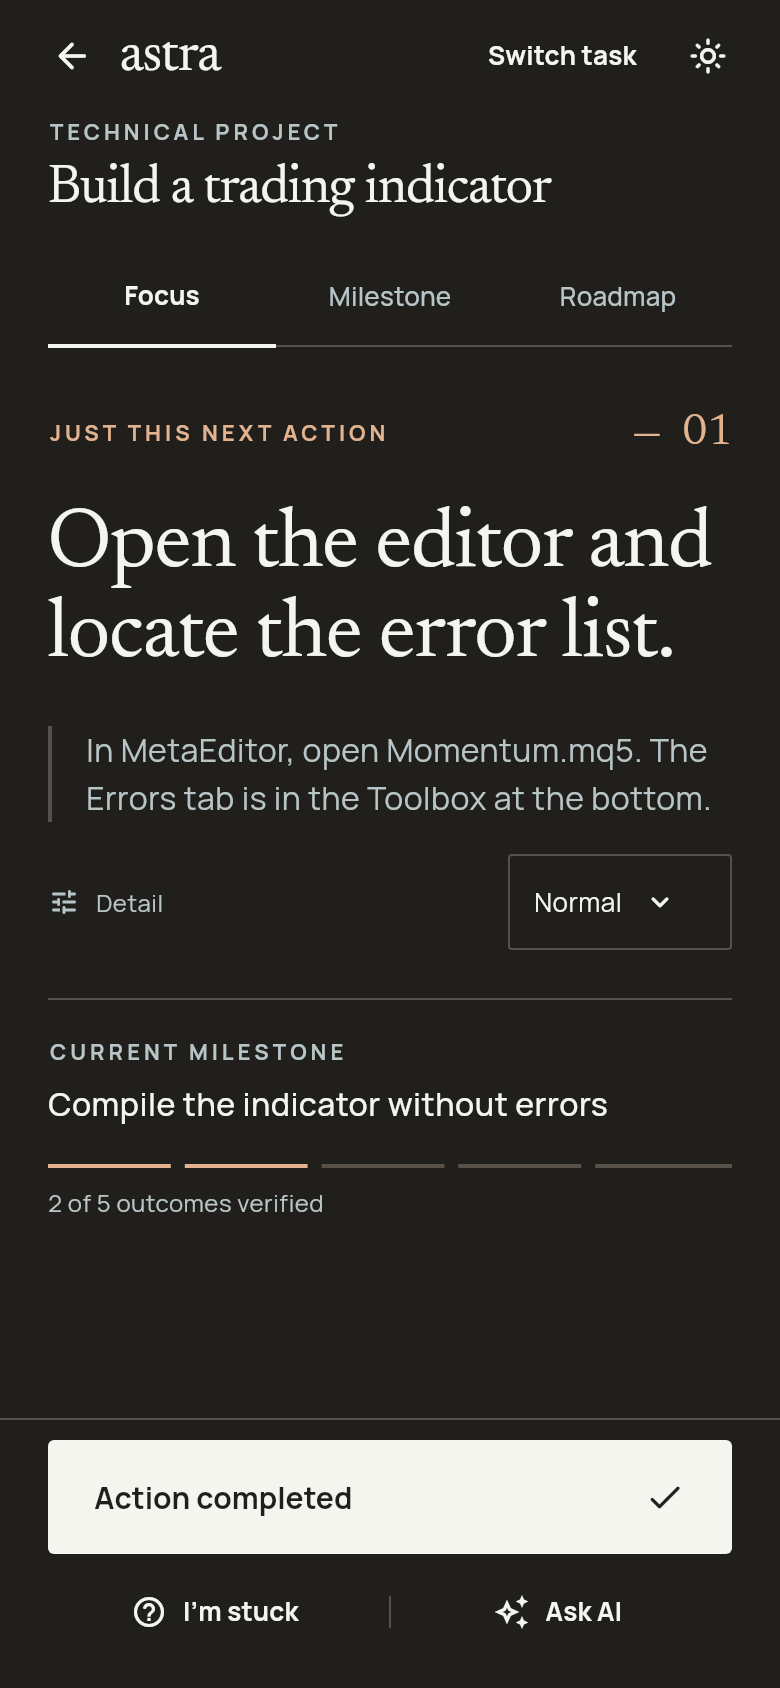
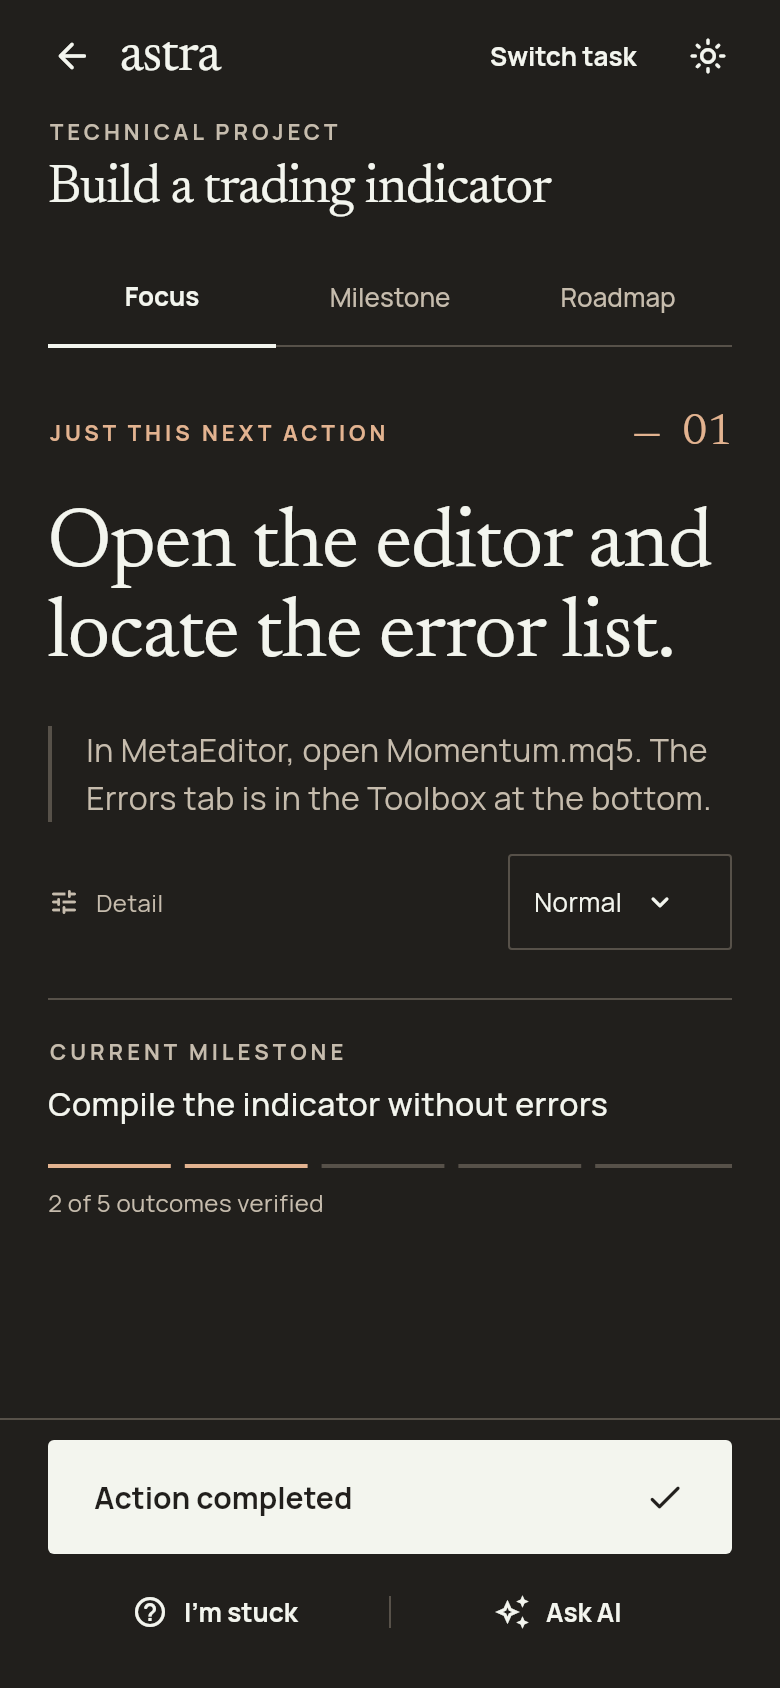
Preserve header controls with large text and finalize theme renders

diff --git a/prototypes/astra/test/exploration_test.dart b/prototypes/astra/test/exploration_test.dart
@@ -135,18 +135,30 @@ void main() {
     }
   }
 
-  testWidgets('all initial concepts remain usable at 200 percent text', (tester) async {
+  testWidgets('all initial concepts remain usable at 200 percent text', (
+    tester,
+  ) async {
     await setup(tester);
     tester.platformDispatcher.textScaleFactorTestValue = 2;
     addTearDown(tester.platformDispatcher.clearTextScaleFactorTestValue);
     for (final direction in VisualDirection.values) {
       for (final dark in [false, true]) {
         for (final page in [AppPage.focus, AppPage.roadmap]) {
-          final model = ExecutionModel(MemoryStore())..page = page..dark = dark;
-          await tester.pumpWidget(AstraApp(key: ValueKey('$direction-$dark-$page'), model: model, direction: direction));
+          final model = ExecutionModel(MemoryStore())
+            ..page = page
+            ..dark = dark;
+          await tester.pumpWidget(
+            AstraApp(
+              key: ValueKey('$direction-$dark-$page'),
+              model: model,
+              direction: direction,
+            ),
+          );
           await tester.pumpAndSettle();
           expect(tester.takeException(), isNull);
-          final button = find.byKey(Key(page == AppPage.focus ? 'complete-action' : 'back-to-action'));
+          final button = find.byKey(
+            Key(page == AppPage.focus ? 'complete-action' : 'back-to-action'),
+          );
           expect(button.hitTestable(), findsOneWidget);
         }
       }
@@ -161,38 +173,40 @@ void main() {
     final originalShadows = debugDisableShadows;
     debugDisableShadows = false;
     try {
-    for (final direction in VisualDirection.values) {
-      for (final dark in [false, true]) {
-        for (final page in [AppPage.focus, AppPage.roadmap]) {
-          final model = ExecutionModel(MemoryStore())
-            ..dark = dark
-            ..page = page;
-          final key = GlobalKey();
-          await tester.pumpWidget(
-            RepaintBoundary(
-              key: key,
-              child: AstraApp(model: model, direction: direction),
-            ),
-          );
-          await tester.pumpAndSettle();
-          expect(tester.takeException(), isNull);
-          await tester.runAsync(() async {
-            final boundary =
-                key.currentContext!.findRenderObject()!
-                    as RenderRepaintBoundary;
-            final image = await boundary.toImage(pixelRatio: 2);
-            final data = await image.toByteData(format: ui.ImageByteFormat.png);
-            await Directory(
-              'visual-exploration/screenshots',
-            ).create(recursive: true);
-            await File(
-              'visual-exploration/screenshots/${direction.name}-${page.name}-${dark ? 'dark' : 'light'}.png',
-            ).writeAsBytes(data!.buffer.asUint8List());
-            image.dispose();
-          });
+      for (final direction in VisualDirection.values) {
+        for (final dark in [false, true]) {
+          for (final page in [AppPage.focus, AppPage.roadmap]) {
+            final model = ExecutionModel(MemoryStore())
+              ..dark = dark
+              ..page = page;
+            final key = GlobalKey();
+            await tester.pumpWidget(
+              RepaintBoundary(
+                key: key,
+                child: AstraApp(model: model, direction: direction),
+              ),
+            );
+            await tester.pumpAndSettle();
+            expect(tester.takeException(), isNull);
+            await tester.runAsync(() async {
+              final boundary =
+                  key.currentContext!.findRenderObject()!
+                      as RenderRepaintBoundary;
+              final image = await boundary.toImage(pixelRatio: 2);
+              final data = await image.toByteData(
+                format: ui.ImageByteFormat.png,
+              );
+              await Directory(
+                'visual-exploration/screenshots',
+              ).create(recursive: true);
+              await File(
+                'visual-exploration/screenshots/${direction.name}-${page.name}-${dark ? 'dark' : 'light'}.png',
+              ).writeAsBytes(data!.buffer.asUint8List());
+              image.dispose();
+            });
+          }
         }
       }
-    }
     } finally {
       debugDisableShadows = originalShadows;
     }

diff --git a/prototypes/astra/lib/exploration/concepts.dart b/prototypes/astra/lib/exploration/concepts.dart
@@ -237,26 +237,15 @@ class ConceptScreen extends StatelessWidget {
           onPressed: () => model.go(AppPage.home),
           icon: const Icon(Icons.arrow_back_rounded, size: 21),
         ),
-        if (p.c)
-          heading('astra', size: 28)
-        else
-          Row(
-            children: [
-              StarMark(size: 18, color: p.accent),
-              const SizedBox(width: 8),
-              Text(
-                'astra',
-                style: TextStyle(
-                  fontFamily: p.heading,
-                  fontSize: 23,
-                  fontWeight: FontWeight.w600,
-                  letterSpacing: -1,
-                  color: p.ink,
-                ),
-              ),
-            ],
-          ),
-        const Spacer(),
+        Expanded(child: Align(alignment: Alignment.centerLeft, child: FittedBox(
+          fit: BoxFit.scaleDown,
+          alignment: Alignment.centerLeft,
+          child: p.c ? heading('astra', size: 28) : Row(mainAxisSize: MainAxisSize.min, children: [
+            StarMark(size: 18, color: p.accent),
+            const SizedBox(width: 8),
+            Text('astra', style: TextStyle(fontFamily: p.heading, fontSize: 23, fontWeight: FontWeight.w600, letterSpacing: -1, color: p.ink)),
+          ]),
+        ))),
         TextButton(
           key: const Key('switch-task'),
           onPressed: () => model.go(AppPage.recovery),
@@ -582,7 +571,7 @@ class ConceptScreen extends StatelessWidget {
               child: Column(
                 crossAxisAlignment: CrossAxisAlignment.start,
                 children: [
-                  label('Current milestone'),
+                  label(t.finished ? 'Verified outcome' : 'Current milestone'),
                   gap(5),
                   body(
                     t.milestone.title,
@@ -635,7 +624,7 @@ class ConceptScreen extends StatelessWidget {
       gap(24),
       const Divider(),
       gap(18),
-      label('Current milestone'),
+      label(t.finished ? 'Verified outcome' : 'Current milestone'),
       gap(6),
       body(t.milestone.title, size: 16, color: p.ink, weight: FontWeight.w500),
       gap(18),
